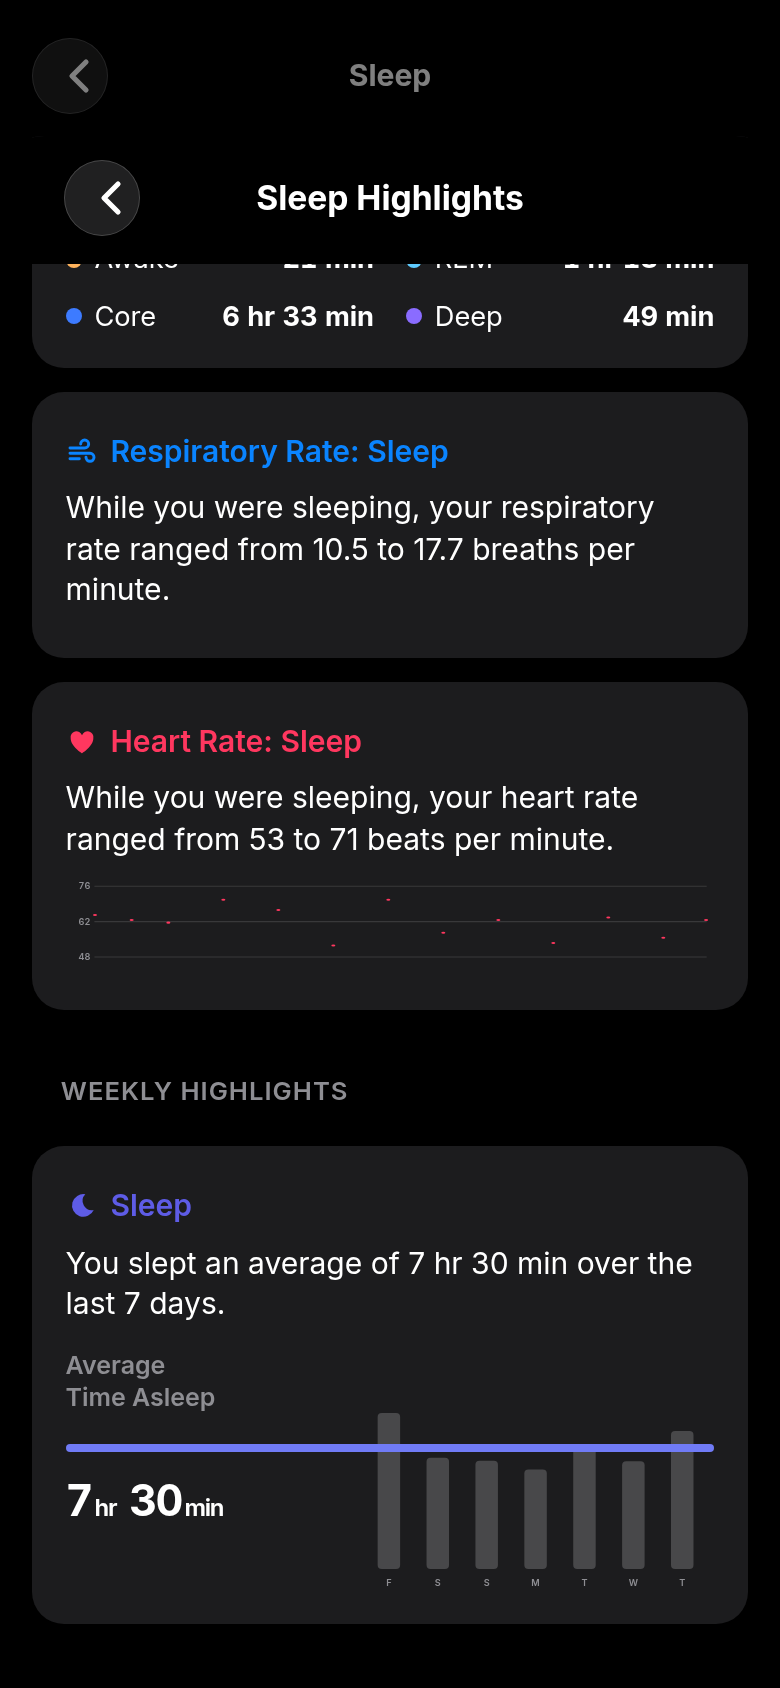
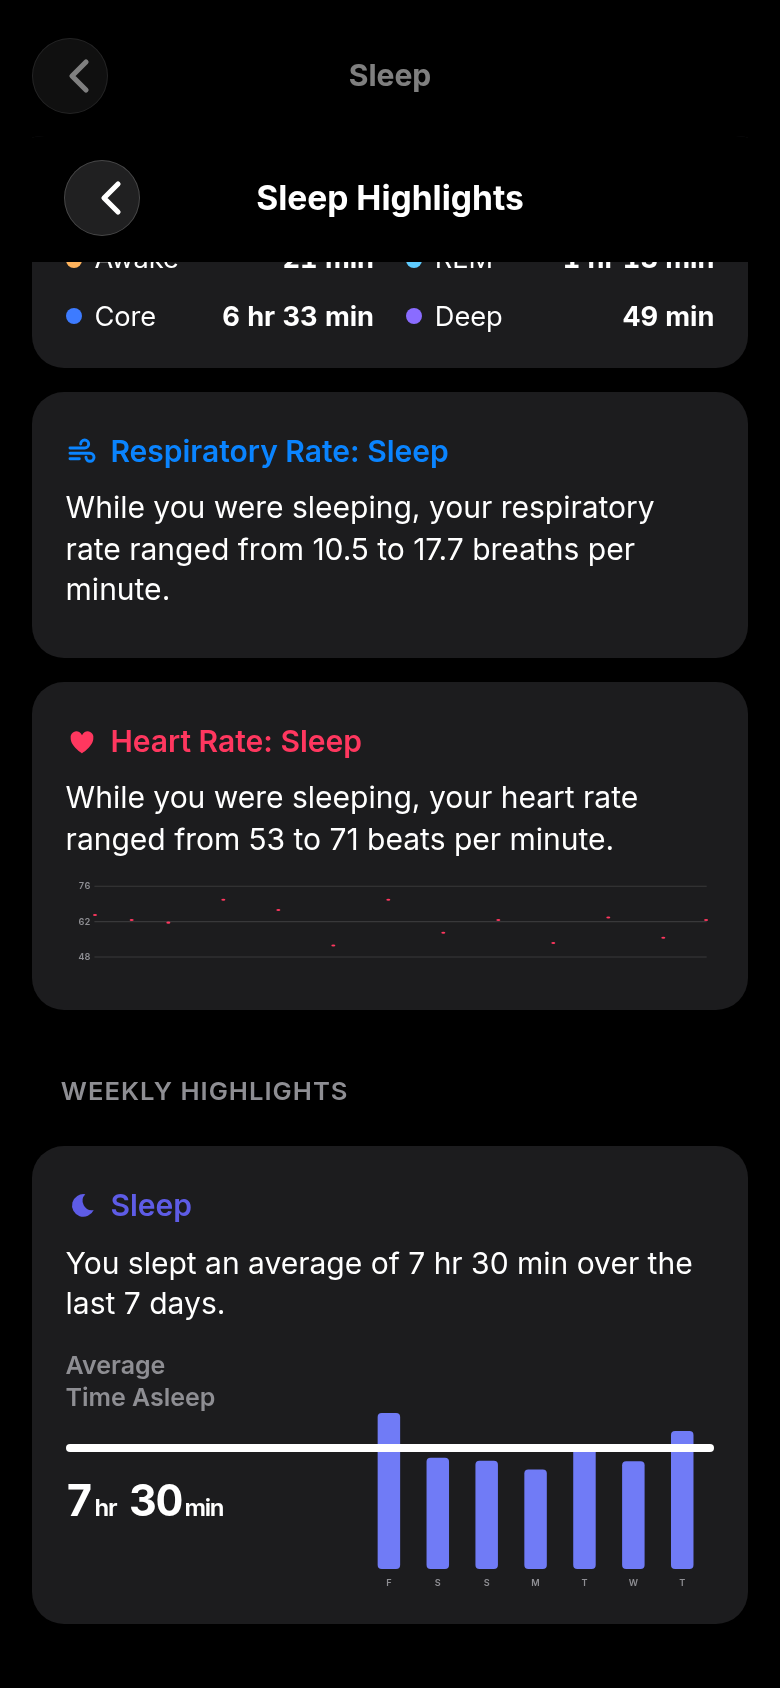
Highlights: purple weekly sleep bars, white mean line
Weekly average day columns use the Apple highlights purple. The mean
line is white so it stays visible across the bars and the dark card.

Changed region(s): [[0.0923, 0.8318, 0.9231, 0.955]]

diff --git a/web/src/styles.css b/web/src/styles.css
@@ -557,7 +557,7 @@ body:has(.sheet-backdrop), body:has(.fullsheet) { overflow: hidden; touch-action
 }
 .hl-head { display: flex; align-items: center; gap: .4rem; font-weight: 600; margin: 0 0 .35rem; }
 .hl-card p { margin: .25rem 0 .5rem; line-height: 1.35; }
-.avg-sleep { position: relative; --avg-line: #707bf6; --avg-bar: #48484a; margin-top: .2rem; }
+.avg-sleep { position: relative; --avg-line: #ffffff; --avg-bar: #707bf6; margin-top: .2rem; }
 .avg-kicker {
   position: absolute; left: 0; width: 40%; margin: 0; z-index: 3; pointer-events: none;
   color: var(--muted); font-size: .78rem; font-weight: 600; line-height: 1.15;

diff --git a/web/src/components/charts.tsx b/web/src/components/charts.tsx
@@ -470,8 +470,8 @@ export function VitalRangeBars(props: {
 }
 
 /**
- * Weekly Highlights average: gray day bars with a purple average line,
- * matching Apple Health. The big duration sits left of the bars.
+ * Weekly Highlights average: purple day bars with a white mean line so the
+ * average stays visible across the bars. The duration sits left of the bars.
  * Yearly comparison is not drawn here.
  */
 export function AvgAsleepBars(props: { nights: { date: string; asleep_min: number }[]; avg: number; height?: number }) {
